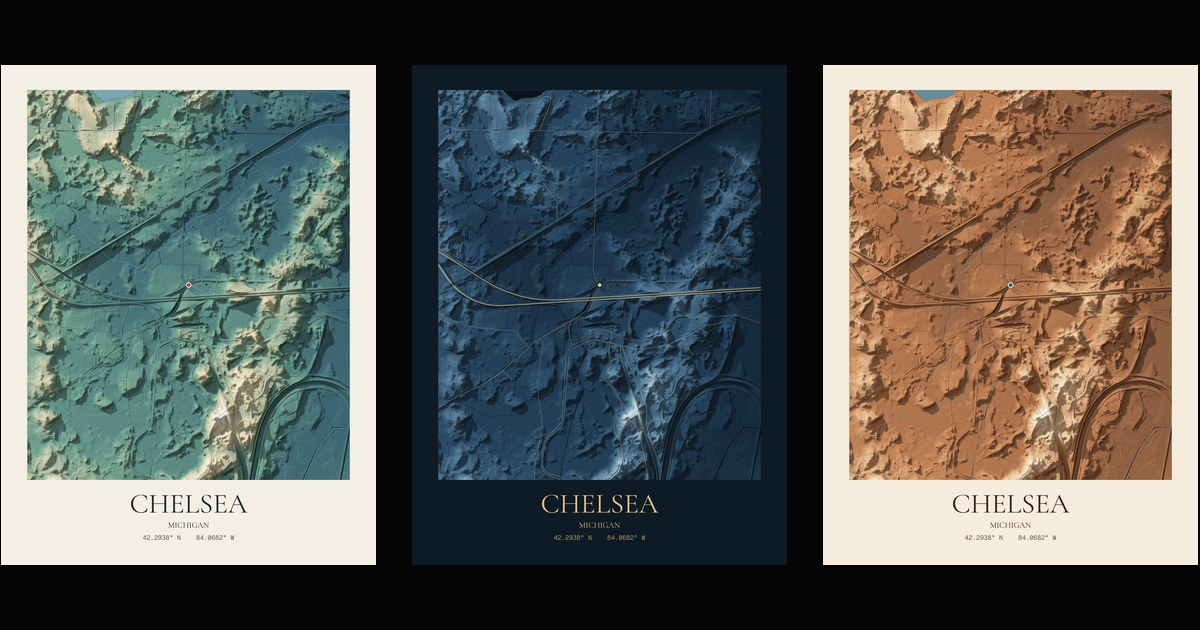
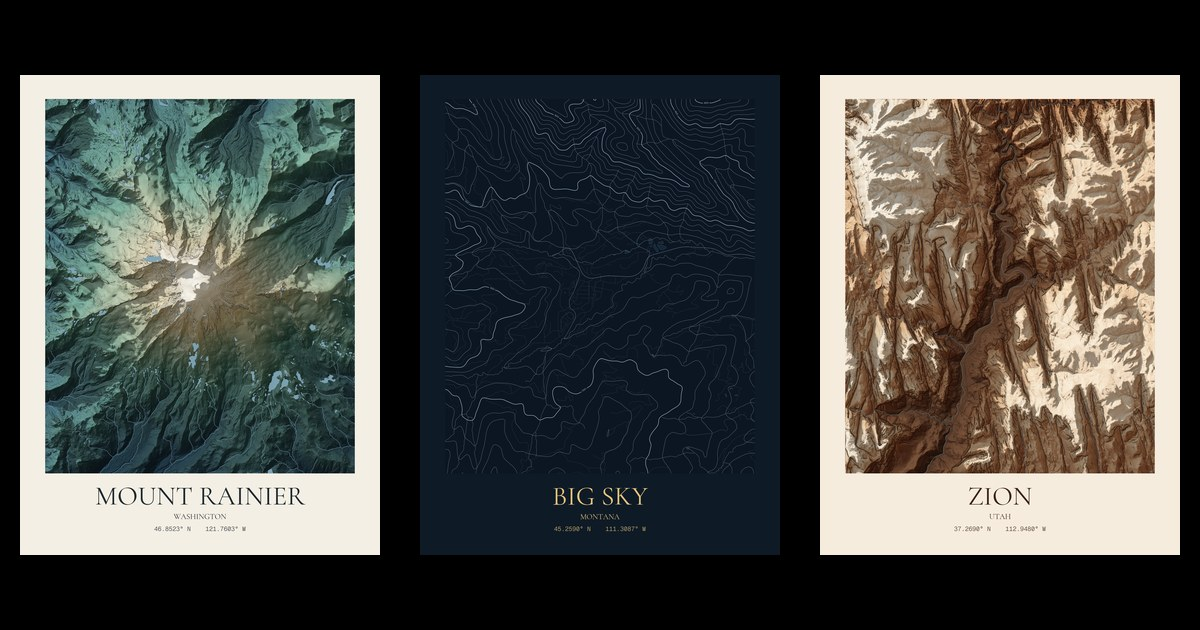
Terrain: Big Sky, Rainier and Zion example prints, replace all Chelsea imagery

diff --git a/terrain/index.html b/terrain/index.html
@@ -17,7 +17,7 @@
 <meta property="og:image" content="https://cieldesign.shop/terrain/og.jpg">
 <meta property="og:image:width" content="1200">
 <meta property="og:image:height" content="630">
-<meta property="og:image:alt" content="Three shaded relief map prints of Chelsea, Michigan in the Sage, Midnight and Desert palettes">
+<meta property="og:image:alt" content="Terrain map prints of Mount Rainier, Big Sky and Zion in the Sage, Midnight and Desert palettes">
 <meta name="twitter:card" content="summary_large_image">
 <meta name="twitter:image" content="https://cieldesign.shop/terrain/og.jpg">
 <script type="application/ld+json">
@@ -41,7 +41,7 @@ try {
 <link rel="preconnect" href="https://fonts.googleapis.com">
 <link rel="preconnect" href="https://fonts.gstatic.com" crossorigin>
 <link href="https://fonts.googleapis.com/css2?family=Bodoni+Moda:ital,opsz,wght@0,6..96,400;0,6..96,500;1,6..96,400&family=Geist:wght@300;400;500&family=Geist+Mono:wght@400&display=swap" rel="stylesheet">
-<link rel="stylesheet" href="style.css?v=202611011938">
+<link rel="stylesheet" href="style.css?v=202611012132">
 <style>
 /* Island nav: the mark and one way in */
 .nav { position: fixed; z-index: 20; top: 18px; left: 50%; transform: translateX(-50%); }
@@ -135,9 +135,9 @@ try {
       </div>
     </div>
     <div class="cascade rv" style="--d:160ms" aria-label="Example prints">
-      <a class="card-print shell c1" href="studio.html?palette=Desert"><img src="assets/print-desert.jpg" alt="Desert palette print of Chelsea, Michigan" width="720" height="963"><span>Desert</span></a>
-      <a class="card-print shell c2" href="studio.html?palette=Midnight"><img src="assets/print-midnight.jpg" alt="Midnight palette print of Chelsea, Michigan" width="720" height="960"><span>Midnight</span></a>
-      <a class="card-print shell c3" href="studio.html?palette=Sage"><img src="assets/print-sage.jpg" alt="Sage palette print of Chelsea, Michigan" width="720" height="960"><span>Sage</span></a>
+      <a class="card-print shell c1" href="studio.html?place=mount-rainier&amp;style=relief&amp;palette=sage"><img src="assets/print-rainier-relief.jpg" alt="Shaded relief print of Mount Rainier, Washington in the Sage palette" width="720" height="960"><span>Mount Rainier</span></a>
+      <a class="card-print shell c2" href="studio.html?style=contour&amp;palette=midnight"><img src="assets/print-bigsky-contour.jpg" alt="Contour print of Big Sky, Montana in the Midnight palette" width="720" height="960"><span>Big Sky</span></a>
+      <a class="card-print shell c3" href="studio.html?place=zion-canyon&amp;style=relief&amp;palette=desert"><img src="assets/print-zion-relief.jpg" alt="Shaded relief print of Zion Canyon, Utah in the Desert palette" width="720" height="960"><span>Zion</span></a>
     </div>
   </section>
 
@@ -145,7 +145,7 @@ try {
     <h2 class="display rv">Land you can almost touch.</h2>
     <div class="bento">
       <div class="tile shell t-big rv"><div class="core">
-        <img src="assets/relief-detail.jpg" alt="Close detail of a shaded relief print showing hills, roads and a marked spot" loading="lazy" width="1000" height="853">
+        <img src="assets/relief-detail.jpg" alt="Close detail of a shaded relief print of Zion Canyon" loading="lazy" width="1000" height="853">
         <div class="over"><div class="stat">1 m</div><p>Every hill and hollow traced from the USGS lidar survey, one meter at a time, then lit from the northwest so the land reads like sculpture.</p></div>
       </div></div>
       <div class="tile shell t-side rv" style="--d:80ms"><div class="core">

diff --git a/terrain/studio.html b/terrain/studio.html
@@ -37,7 +37,7 @@ try {
 <link rel="preconnect" href="https://fonts.googleapis.com">
 <link rel="preconnect" href="https://fonts.gstatic.com" crossorigin>
 <link href="https://fonts.googleapis.com/css2?family=Bodoni+Moda:ital,opsz,wght@0,6..96,400;0,6..96,500;1,6..96,400&family=Cormorant+Garamond:wght@400&family=Geist:wght@300;400;500&family=Geist+Mono:wght@400&display=swap" rel="stylesheet">
-<link rel="stylesheet" href="style.css?v=202611011938">
+<link rel="stylesheet" href="style.css?v=202611012132">
 <style>
 .top { display: flex; align-items: center; justify-content: space-between; max-width: 1600px; margin: 0 auto; padding: 22px var(--gut) 0; }
 .top .back { display: inline-flex; align-items: center; gap: 10px; font-size: 13px; color: var(--mute); transition: color 0.4s; }
@@ -483,10 +483,10 @@ textarea.input { height: 112px; padding: 16px 18px; resize: vertical; line-heigh
   var DIGITAL = 'Digital file|None';
   var FALLBACK = { '12 x 16 in|Unframed': 49, '12 x 16 in|Black frame': 129, '18 x 24 in|Unframed': 69, '18 x 24 in|Black frame': 169, '24 x 32 in|Unframed': 99, '24 x 32 in|Black frame': 229, 'Digital file|None': 15, custom: 15 };
   var FAVORITES = [
-    { name: 'Half Dome', lat: 37.7459, lon: -119.5332, title: 'HALF DOME', sub: 'YOSEMITE, CALIFORNIA', place: 'Half Dome, Yosemite National Park, California', span: 8000, img: 'assets/print-mono.jpg' },
-    { name: 'Zion Canyon', lat: 37.2690, lon: -112.9480, title: 'ZION', sub: 'UTAH', place: 'Zion Canyon, Utah', span: 8000, img: 'assets/print-desert.jpg' },
-    { name: 'Mount Rainier', lat: 46.8523, lon: -121.7603, title: 'MOUNT RAINIER', sub: 'WASHINGTON', place: 'Mount Rainier, Washington', span: 15000, img: 'assets/print-sage.jpg' },
-    { name: 'Sleeping Bear Dunes', lat: 44.8836, lon: -86.0456, title: 'SLEEPING BEAR', sub: 'MICHIGAN', place: 'Sleeping Bear Dunes, Michigan', span: 3600, img: 'assets/print-midnight.jpg' }
+    { name: 'Half Dome', lat: 37.7459, lon: -119.5332, title: 'HALF DOME', sub: 'YOSEMITE, CALIFORNIA', place: 'Half Dome, Yosemite National Park, California', span: 8000, img: 'assets/print-halfdome.jpg' },
+    { name: 'Zion Canyon', lat: 37.2690, lon: -112.9480, title: 'ZION', sub: 'UTAH', place: 'Zion Canyon, Utah', span: 8000, img: 'assets/print-zion-relief.jpg' },
+    { name: 'Mount Rainier', lat: 46.8523, lon: -121.7603, title: 'MOUNT RAINIER', sub: 'WASHINGTON', place: 'Mount Rainier, Washington', span: 15000, img: 'assets/print-rainier-relief.jpg' },
+    { name: 'Sleeping Bear Dunes', lat: 44.8836, lon: -86.0456, title: 'SLEEPING BEAR', sub: 'MICHIGAN', place: 'Sleeping Bear Dunes, Michigan', span: 3600, img: 'assets/print-sleepingbear.jpg' }
   ];
   // Map width across the print, in meters. The renderer reads the same value from the order.
   var SPANS = [1500, 2000, 2500, 3000, 3600, 4500, 6000, 8000, 10000, 12000, 15000], DEFAULT_SPAN = 3600;
